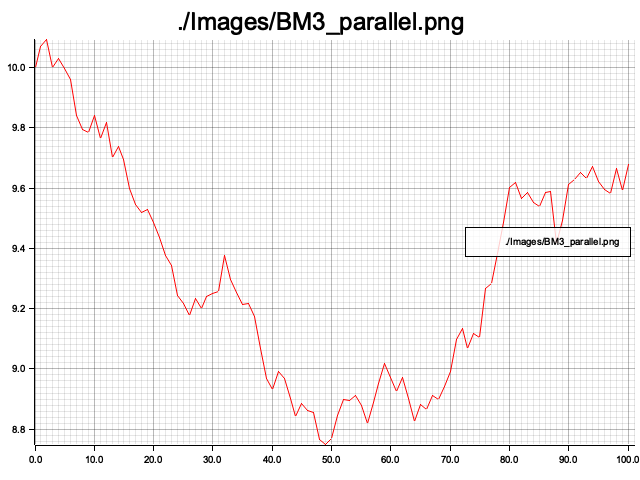
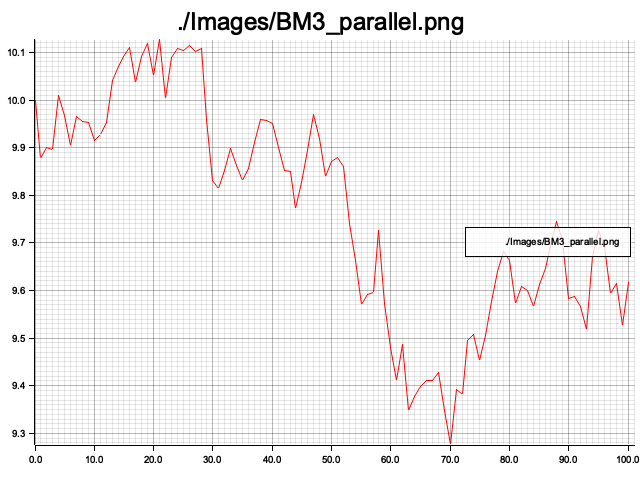
updated README.md

Changed region(s): [[0.0, 0.0625, 1.0, 0.9375]]

diff --git a/src/stochastics/vasicek.rs b/src/stochastics/vasicek.rs
@@ -1,0 +1,58 @@
+#![deny(missing_docs)]
+
+use crate::process::StochasticProcess;
+
+/// Struct containing the Ornstein-Uhlenbeck process parameters.
+#[derive(Debug)]
+pub struct Vasicek {
+    /// Mean reversion parameter ($\alpha$).
+    /// Defines the speed at which the process reverts to the long-run mean.
+    pub alpha: f64,
+
+    /// The long-run mean ($\beta$).
+    pub beta: f64,
+
+    /// The diffusion, or instantaneous volatility ($\sigma$).
+    pub sigma: f64,
+}
+
+impl Vasicek {
+    /// Create a new Vasicek short rate process.
+    pub fn new(alpha: f64, beta: f64, sigma: f64) -> Self {
+        assert!(sigma >= 0.0);
+        Self { alpha, beta, sigma }
+    }
+}
+
+impl StochasticProcess for Vasicek {
+    fn drift(&self, x: f64) -> f64 {
+        self.alpha * (self.beta - x)
+    }
+
+    fn diffusion(&self, x: f64) -> f64 {
+        self.sigma
+    }
+}
+
+// ~~~~~~~~~~~~~~~~~~~~~~~~~~~~~~~~~~~~~~~~~~~~~~~~~~~~~~~~~~~~~~~~~~~~~~~~~~~~
+// TESTS
+// ~~~~~~~~~~~~~~~~~~~~~~~~~~~~~~~~~~~~~~~~~~~~~~~~~~~~~~~~~~~~~~~~~~~~~~~~~~~~
+
+#[cfg(test)]
+mod tests {
+    use super::*;
+    use crate::plot::plot_vector;
+
+    #[test]
+    fn test_vasicek() -> Result<(), Box<dyn std::error::Error>> {
+        let vasicek = Vasicek::new(0.15, 0.05, 0.2);
+
+        let output = vasicek.euler_maruyama(10.0, 0.0, 0.5, 1000, 2, false);
+
+        let file1 = "./Images/Vasicek1.png";
+        plot_vector((&output.trajectories[0]).clone(), file1).unwrap();
+
+        let file2 = "./Images/Vasicek2.png";
+        plot_vector((&output.trajectories[1]).clone(), file2)
+    }
+}

diff --git a/src/lib.rs b/src/lib.rs
@@ -57,6 +57,8 @@ pub mod stochastics {
     pub mod ornstein_uhlenbeck;
     /// Submodule of `stochastics`: defines `Trajectories` and `StochasticProcess`.
     pub mod process;
+    /// Submodule of `stochastics`: implements the Vasicek short rate model.
+    pub mod vasicek;
 }
 
 // ~~~~~~~~~~~~~~~~~~~~~~~~~~~~~~~~~~~~~~~~~~~~~~~~~~~~~~~~~~~~~~~~~~~~~~~~~~~~

diff --git a/README.md b/README.md
@@ -47,15 +47,14 @@ Below is a checklist of features that are:
 ## Stochastic Processes and Short Rate Models
 
 + [x] Brownian Motion
-    + $$
 + [x] Geometric Brownian Motion
     + $dX_t = \mu X_t dt + \sigma X_t dW_t$
 + [x] Cox-Ingersoll-Ross (1985)
     + $dr_t = (\theta - \alpha r_t)dt + \sqrt{r_t} \sigma dW_t$
 + [x] Ornstein-Uhlenbeck process
     + $dx_t = \theta(\mu - x_t)dt + \sigma dW_t$
-+ [ ] Vasicek (1977)
-    + $dr_t = (\theta - \alpha r_t)dt + \sigma dW_t$
++ [X] Vasicek (1977)
+    + $dr_t = \alpha(\beta - r_t)dt + \sigma dW_t$
 + [ ] Rendleman-Bartter (1980)
     + $dr_t = \theta r_t dt + \sigma r_t dW_t$
 + [ ] Ho-Lee (1986)
@@ -63,7 +62,8 @@ Below is a checklist of features that are:
 + [ ] Hull-White (1990)
     + $dr_t = (\theta - \alpha r_t)dt + \sigma_t dW_t$
 + [ ] Black-Derman-Toy (1990)
-    + 
+    + d\ln(r) = \left[ \theta_t + \frac{\sigma_t'}{\sigma_t}\ln(r) \right]dt + \sigma_t dW_t
+    + d\ln(r) = \theta_t dt + \sigma dW_t
 + [ ] Merton's model (1973)
     + $r_t = r_0 + at + \sigma W_t^*$
 
